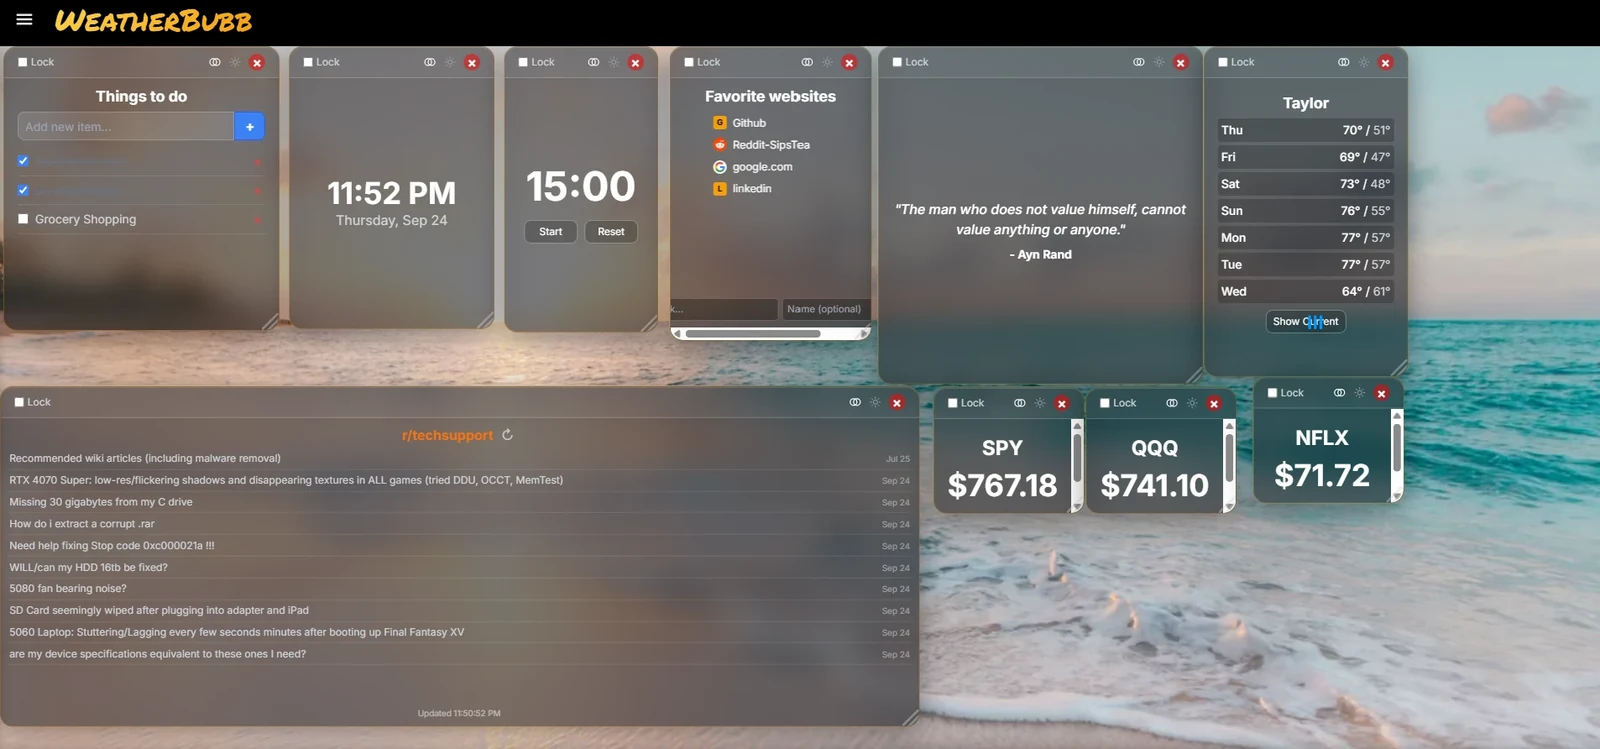
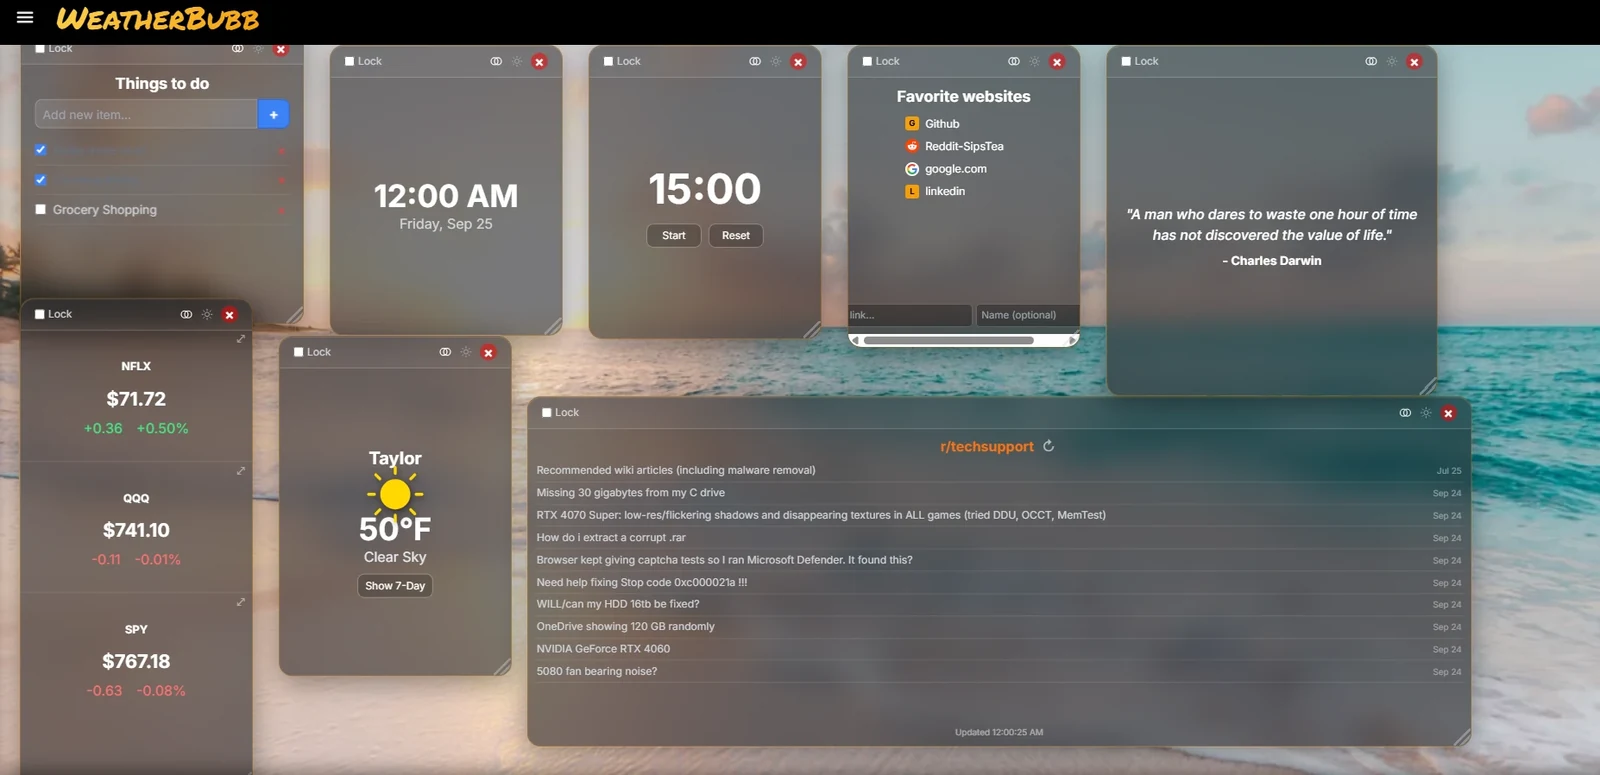
Replace the README screenshot with one from a build that isn't broken
The previous hero image was taken before the forecast icon fix: it shows
"Show C[icon]rent" with a weather icon sitting across the button and no
icons in the 7-day rows. The repo's front page was advertising the bug.

This one is from the current build -- the sun icon renders where it
belongs -- and is a better shot regardless, since the merged three-stock
ticker is visible and that is the feature nothing else has. Smaller too,
78 KB against 91 KB.

Added a note to the screenshots README to hard-refresh and check the
build stamp before shooting, because this is an easy mistake to repeat:
the dashboard looks fine in a stale tab right up until the part that
changed.

Claude-Session: https://claude.ai/code/session_013WEi2FjGyGp5Ssxh9srAj6

diff --git a/docs/screenshots/README.md b/docs/screenshots/README.md
@@ -4,7 +4,7 @@ Referenced from the project README.
 
 | File | Shows |
 |---|---|
-| `dashboard-beach.webp` | A full dashboard — to-do, clock, timer, quick links, quote, 7-day forecast, an r/techsupport feed and three tickers |
+| `dashboard-beach.webp` | A full dashboard — merged three-stock ticker, weather, r/techsupport feed, quick links, to-do, timer, quote |
 | `dashboard-forest.webp` | Merged stock bubble, to-do list, quick links, timer, quote |
 | `sidebar.webp` | The menu open: settings, themes, layout controls |
 
@@ -30,3 +30,10 @@ im.resize((w, round(im.height * w / im.width)), Image.LANCZOS).save(
     'docs/screenshots/name.webp', 'WEBP', quality=88, method=6)
 "
 ```
+
+## Before you take one
+
+Hard-refresh first. The first screenshot committed here was taken on a build
+whose 7-day forecast icons were broken, so the repo's front page advertised
+the bug for a few hours. Check the build stamp at the bottom of the menu
+matches the latest commit before shooting.

diff --git a/README.md b/README.md
@@ -12,7 +12,7 @@ rearrange.
 It is a single HTML file plus one small Cloudflare Worker. No build step, no
 framework, no database, no accounts, no tracking.
 
-![WeatherBubb — a dashboard of floating bubbles](docs/screenshots/dashboard-beach.webp)
+![WeatherBubb — a dashboard of floating bubbles: a merged three-stock ticker, weather, a subreddit feed, quick links, a to-do list, a timer and a quote](docs/screenshots/dashboard-beach.webp)
 
 ---
 
